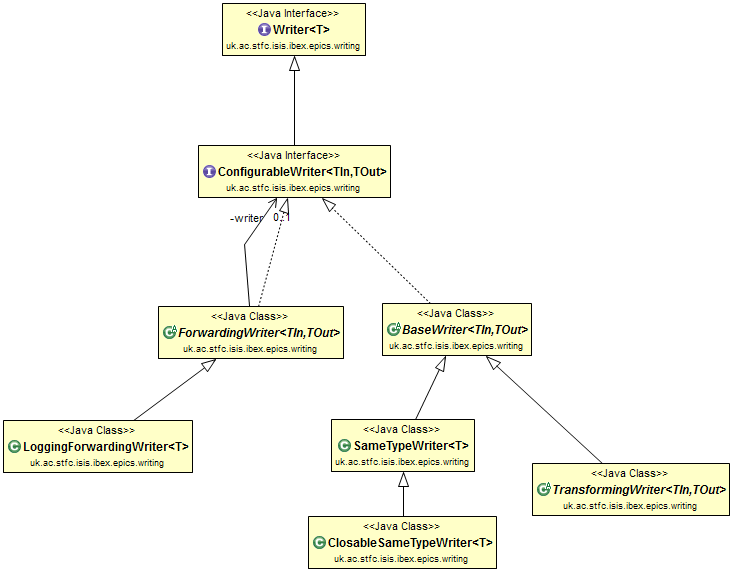
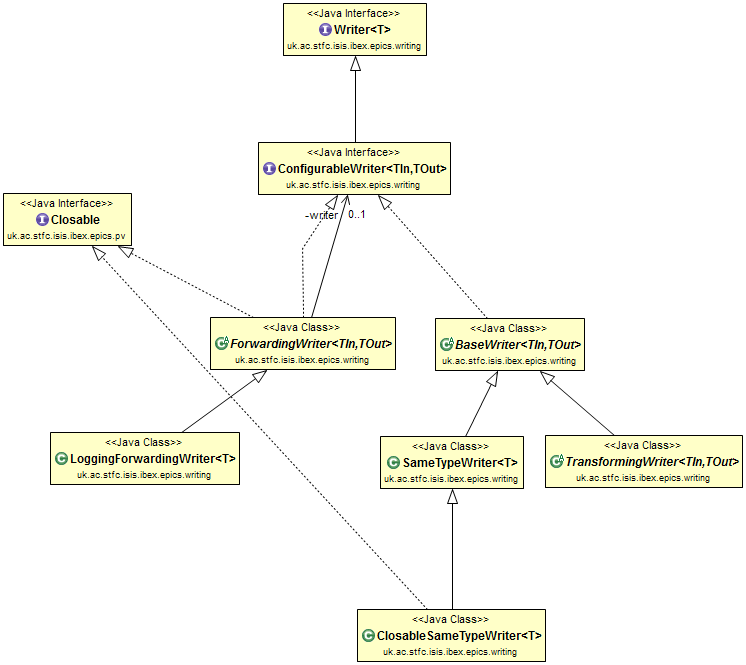
Shows the new changes to Observables, adds closable interface to writers

diff --git a/refactoring_for_observables_and_writers.rst b/refactoring_for_observables_and_writers.rst
@@ -44,6 +44,15 @@ November 2015
    :width: 438
    :scale: 100 %
    :align: center
+   
+January 2016
+-------------
+
+.. image:: images/refactoring_for_observables_and_writers/observables_2016_01.png
+   :height: 525 
+   :width: 438
+   :scale: 100 %
+   :align: center
 
 Observers
 =========
